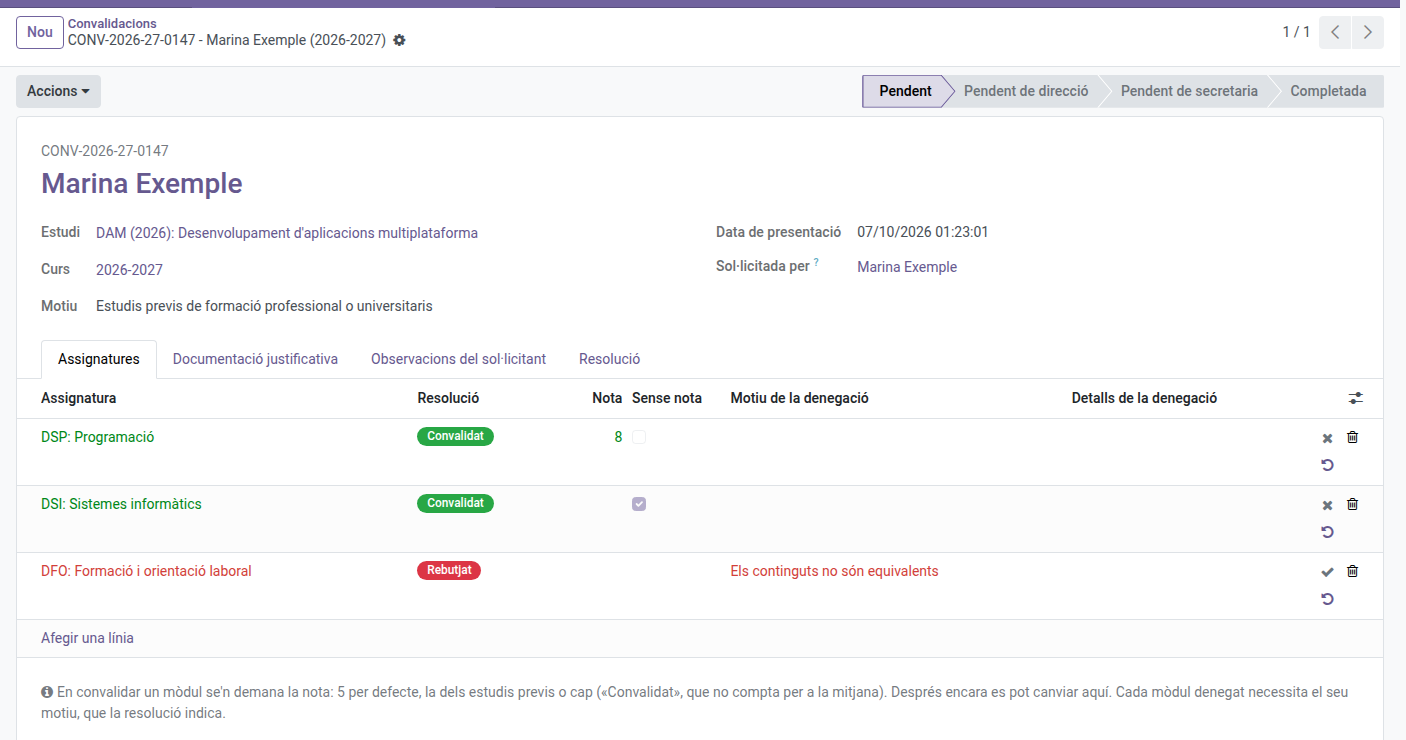
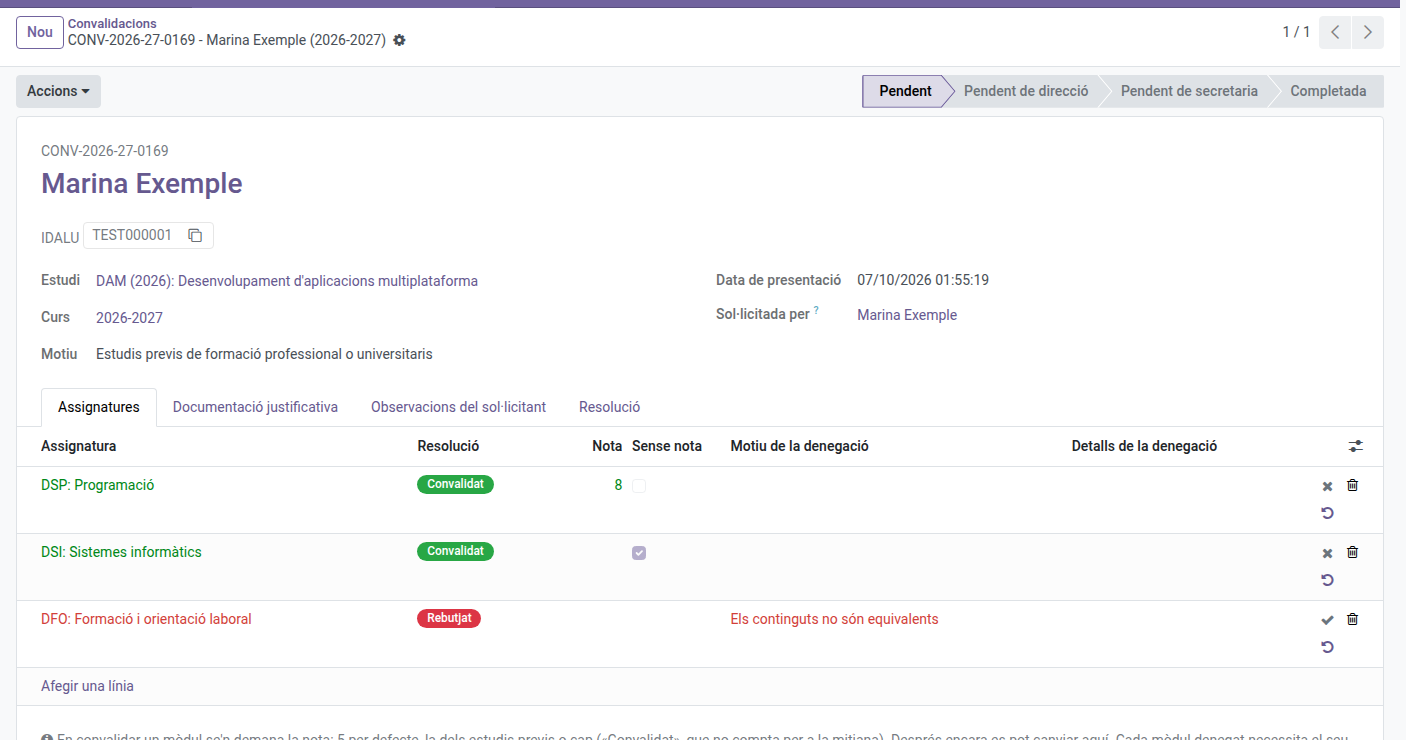
[IMP] Convalidations: show the student's IDALU with a copy button (#576)
The request form shows the IDALU under the student's name (CopyClipboardChar), the list has
it as an optional column and the Student search field matches it too.

diff --git a/static/tests/tours/convalidation_tour.js b/static/tests/tours/convalidation_tour.js
@@ -23,6 +23,11 @@ registry.category("web_tour.tours").add("ems_convalidation_resolve", {
             content: "The request opens as pending",
         },
         {
+            // Issue #576: the student's IDALU, with a button to copy it into Esfera.
+            trigger: ".o_form_view .oe_title .o_field_widget[name='student_idalu']:contains('TEST') .o_clipboard_button",
+            content: "The student's IDALU is shown under the name, ready to copy",
+        },
+        {
             trigger: ".o_form_view .o_field_widget[name='line_ids'] .o_data_row button[name='action_open_grant']",
             content: "Convalidate the requested subject",
             run: "click",

diff --git a/models/grades/convalidation.py b/models/grades/convalidation.py
@@ -37,6 +37,8 @@ class EmsConvalidation(models.Model):
     student_id = fields.Many2one(string="Student", comodel_name='res.partner', required=True,
                                  ondelete='restrict', index=True, tracking=True,
                                  domain="[('contact_type', 'in', ('student', 'applicant'))]")
+    student_idalu = fields.Char(string="Student ID", related='student_id.student_id',
+                                help="The student's IDALU, to look up their academic record in Esfera.")
     requester_id = fields.Many2one(string="Requested by", comodel_name='res.partner', ondelete='set null',
                                    help="Portal user who submitted the request: the student or a family contact.")
     course_id = fields.Many2one(string="Course", comodel_name='ems.course', required=True,

diff --git a/docs/en/developers/grades/convalidation.md b/docs/en/developers/grades/convalidation.md
@@ -46,6 +46,7 @@ erDiagram
 |-------|------|-------|
 | `name` | Char | Registration number, `CONV-<start>-<end, two digits>-<4-digit counter>` (e.g. `CONV-2026-27-0001`), assigned on creation by `_ems_next_registration_number(course)`. The counter starts again every course: one `ir.sequence` per course (code `ems.convalidation.course.<id>`, the prefix baked in), created the first time that course gets a request, so nothing has to be prepared before a year opens. Leads `display_name`. |
 | `student_id` | M2o `res.partner` | Required. Student or applicant (an applicant enrolling into a cycle is the typical requester). |
+| `student_idalu` | Char, related | The student's IDALU (`student_id.student_id`), shown under the name with a copy button (`CopyClipboardChar`) to paste it into Esfera, as an optional list column, and searchable from the *Student* search field (issue #576). |
 | `requester_id` | M2o `res.partner` | The portal user who submitted it: the student or a family contact. |
 | `course_id` | M2o `ems.course` | Required. Defaults to the enrollment course (`is_enrollment_default`), else the current one: requests are made while enrolling. |
 | `study_id` | M2o `ems.study` | Required. Its level must allow convalidations (`_check_study_allows_convalidation`). |

diff --git a/docs/es/head_of_studies/convalidations.md b/docs/es/head_of_studies/convalidations.md
@@ -58,6 +58,7 @@ Crear una tarea no envía ningún correo. En su lugar, cada día laborable, al i
 Abre la solicitud desde la lista. El formulario muestra:
 
 - El **número de registro** (por ejemplo CONV-2026-27-0001), encima del nombre del alumno.
+- El **IDALU** del alumno, bajo su nombre, con un botón que lo copia para pegarlo en Esfera y consultar su expediente académico. También puedes escribir un IDALU en el buscador de la lista, en *Alumno*, para encontrar sus solicitudes.
 - **Estudio**, **Curso** y **Motivo**. Estos datos, el alumno y las observaciones del solicitante son los de la solicitud y no se pueden modificar.
 - Bajo el nombre del alumno, el aviso **Tiene una titulación obtenida en el centro** cuando en el historial académico consta un título obtenido aquí.
 - Pestaña **Asignaturas**: una línea por cada módulo solicitado.

diff --git a/docs/ca/head_of_studies/convalidations.md b/docs/ca/head_of_studies/convalidations.md
@@ -58,6 +58,7 @@ Crear una tasca no envia cap correu. En canvi, cada dia laborable, a l'inici de 
 Obre la sol·licitud des de la llista. El formulari mostra:
 
 - El **número de registre** (per exemple CONV-2026-27-0001), a sobre del nom de l'alumne.
+- L'**IDALU** de l'alumne, sota el seu nom, amb un botó que el copia per enganxar-lo a Esfera i consultar-ne l'expedient acadèmic. També pots escriure un IDALU al cercador de la llista, a *Alumne*, per trobar-ne les sol·licituds.
 - **Estudi**, **Curs** i **Motiu**. Aquestes dades, l'alumne i les observacions del sol·licitant són les de la sol·licitud i no es poden modificar.
 - Sota el nom de l'alumne, l'avís **Té una titulació obtinguda al centre** quan a l'històric acadèmic hi consta un títol obtingut aquí.
 - Pestanya **Assignatures**: una línia per cada mòdul sol·licitat.

diff --git a/docs/en/head_of_studies/convalidations.md b/docs/en/head_of_studies/convalidations.md
@@ -58,6 +58,7 @@ Creating a task sends no email. Instead, every working day at the start of your 
 Open the request from the list. The form shows:
 
 - The **registration number** (e.g. CONV-2026-27-0001), above the student's name.
+- The student's **IDALU**, under their name, with a button that copies it so you can paste it into Esfera to look up their academic record. You can also type an IDALU in the list's search bar, under *Student*, to find their requests.
 - **Study**, **Course** and **Grounds**. These, the student and the applicant's comments come from the request and cannot be changed.
 - Under the student's name, the notice **Holds a title obtained at this centre** when the academic history records a title obtained here.
 - **Subjects** tab: one line for each module requested.

diff --git a/changelog/576-convalidation-idalu.md b/changelog/576-convalidation-idalu.md
@@ -1,0 +1,9 @@
+# What's new
+
+## Student's IDALU on the convalidation request:
+
+- The convalidation request form shows the student's IDALU right under their name, with a
+  one-click copy button, so the Head of Studies can paste it into Esfera to look up the
+  student's academic record without opening the student's own form.
+- The convalidation list has an optional IDALU column (hidden by default), and the search
+  bar's *Student* field also matches the IDALU.
